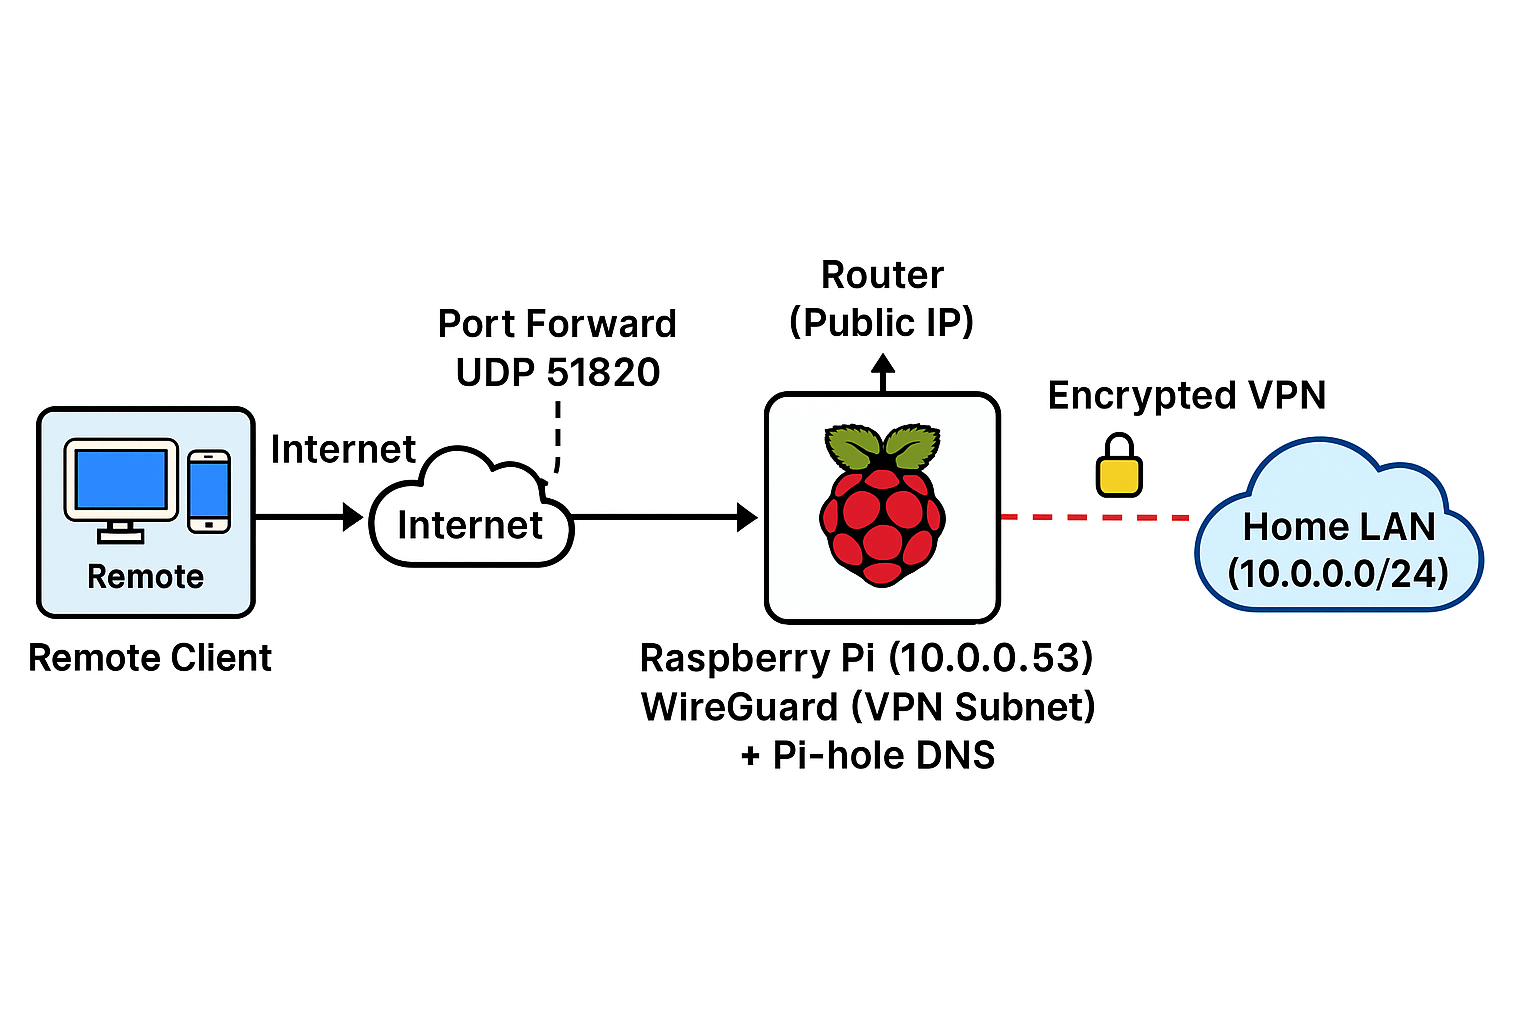
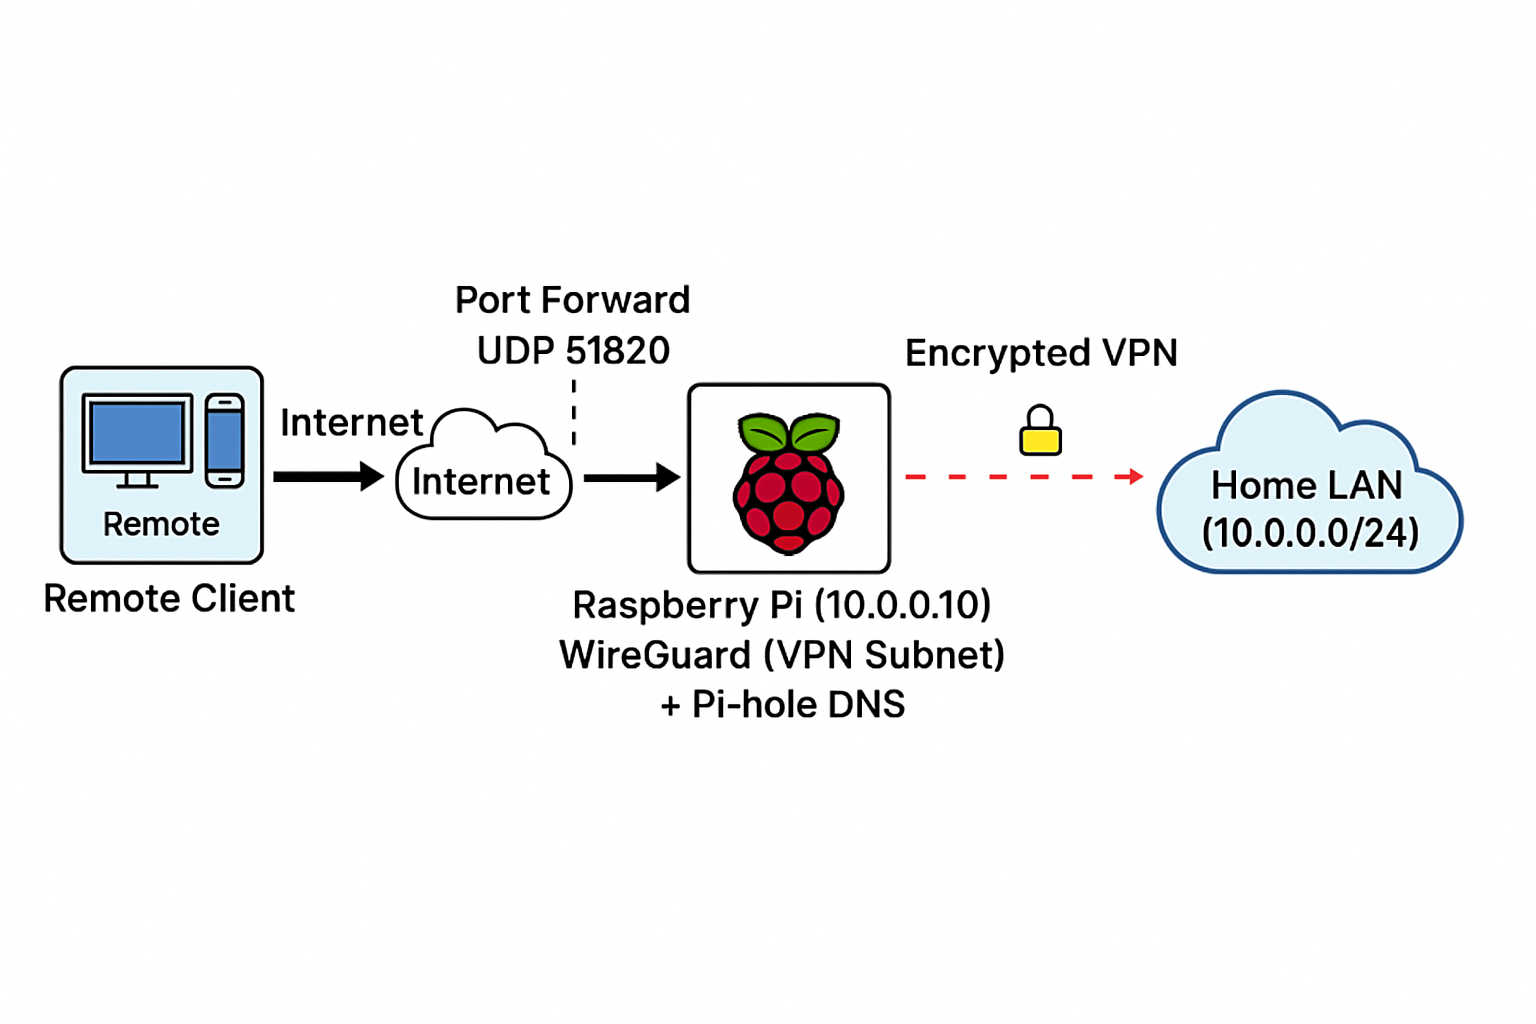
change system diagram image

Changed region(s): [[0.0, 0.25, 0.9688, 0.75]]

diff --git a/README.md b/README.md
@@ -10,10 +10,10 @@ A guide to setting up a secure home VPN using Raspberry Pi 5, WireGuard (PiVPN) 
 ## Quick Setup
 
 ### Flash OS with Raspberry Pi Imager
-- Device: Raspberry Pi 5
-- OS: Raspberry Pi OS Lite (64-bit)
-- Advanced options:
-  - Hostname: raspberrypi (change hostname or keep default)
+- **Device**: Raspberry Pi 5
+- **OS**: Raspberry Pi OS Lite (64-bit)
+- **Advanced options**:
+  - Hostname: pivpn (change hostname or keep default)
   - Enable SSH (key-only)
   - Username: pi (change username or keep default)
   - Password: your_password
@@ -29,7 +29,7 @@ sudo apt update && sudo apt full-upgrade -y && sudo reboot
 ```
 
 ### Secure SSH Access
-Generate a key pair and disable password logins (run these **on your compter not the pi**):
+Generate a key pair and disable password logins (run these **on your compter**):
 ```bash
 ssh-keygen -t ed25519
 ssh-copy-id <username>@<hostname>.local
@@ -47,7 +47,8 @@ sudo systemctl status fail2ban --no-pager
 ```
 
 ### Assign Static IP
-**via terminal**
+**Via terminal**
+
 Edit network configuration:
 ```bash
 sudo nano /etc/dhcpcd.conf
@@ -63,7 +64,7 @@ Reboot the Pi:
 ```bash
 sudo reboot
 ```
-**via router**
+**Via router**
 [![Assign Static PI via Router](images/address-reservation.png)](images/address-reservation.png)
 
 
